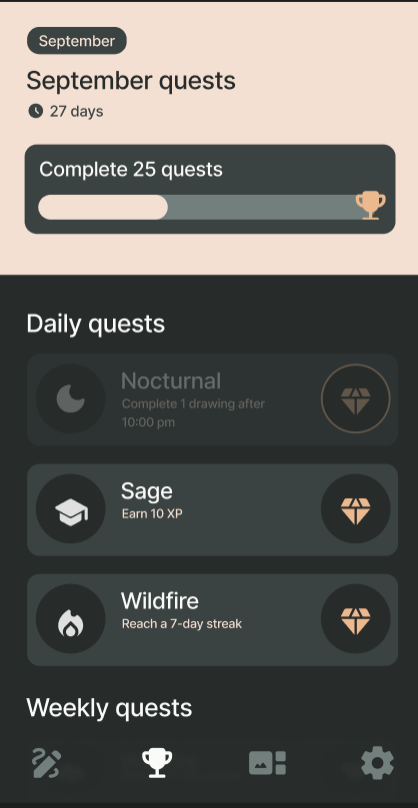
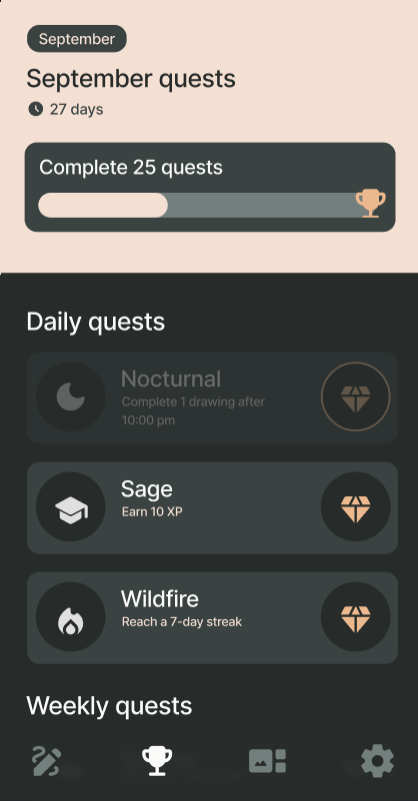
feat(quests): add quest card component

diff --git a/src/utils/svg-images.tsx b/src/utils/svg-images.tsx
@@ -96,3 +96,30 @@ export const Clock = ({ size = defaultSize, color = defaultColor }) => (
     />
   </Svg>
 )
+
+export const Moon = ({ size = defaultSize, color = defaultColor }) => (
+  <Svg width={size} height={size} viewBox="0 0 60 60" fill="none">
+    <Path
+      d="M30 52.5C23.7083 52.5 18.3854 50.3229 14.0312 45.9688C9.67708 41.6146 7.5 36.2917 7.5 30C7.5 24.25 9.375 19.2604 13.125 15.0312C16.875 10.8021 21.6667 8.33333 27.5 7.625C28.5417 7.5 29.3542 7.875 29.9375 8.75C30.5208 9.625 30.5 10.5417 29.875 11.5C29.1667 12.5833 28.6354 13.7292 28.2812 14.9375C27.9271 16.1458 27.75 17.4167 27.75 18.75C27.75 22.5 29.0625 25.6875 31.6875 28.3125C34.3125 30.9375 37.5 32.25 41.25 32.25C42.5417 32.25 43.8229 32.0625 45.0938 31.6875C46.3646 31.3125 47.5 30.7917 48.5 30.125C49.375 29.5417 50.2708 29.5104 51.1875 30.0312C52.1042 30.5521 52.5 31.375 52.375 32.5C51.7917 38.25 49.3438 43.0208 45.0312 46.8125C40.7188 50.6042 35.7083 52.5 30 52.5Z"
+      fill={color}
+    />
+  </Svg>
+)
+
+export const School = ({ size = defaultSize, color = defaultColor }) => (
+  <Svg width={size} height={size} viewBox="0 0 60 60" fill="none">
+    <Path
+      d="M52.4999 40V25.25L32.3749 36.1875C31.6249 36.6042 30.8333 36.8125 29.9999 36.8125C29.1666 36.8125 28.3749 36.6042 27.6249 36.1875L6.49994 24.6875C6.04161 24.4375 5.71869 24.125 5.53119 23.75C5.34369 23.375 5.24994 22.9583 5.24994 22.5C5.24994 22.0417 5.34369 21.625 5.53119 21.25C5.71869 20.875 6.04161 20.5625 6.49994 20.3125L27.6249 8.8125C27.9999 8.60417 28.3854 8.44792 28.7812 8.34375C29.177 8.23958 29.5833 8.1875 29.9999 8.1875C30.4166 8.1875 30.8229 8.23958 31.2187 8.34375C31.6145 8.44792 31.9999 8.60417 32.3749 8.8125L56.1874 21.8125C56.6041 22.0208 56.927 22.3229 57.1562 22.7188C57.3854 23.1146 57.4999 23.5417 57.4999 24V40C57.4999 40.7083 57.2604 41.3021 56.7812 41.7812C56.302 42.2604 55.7083 42.5 54.9999 42.5C54.2916 42.5 53.6979 42.2604 53.2187 41.7812C52.7395 41.3021 52.4999 40.7083 52.4999 40ZM27.6249 51.1875L15.1249 44.4375C14.2916 43.9792 13.6458 43.3542 13.1874 42.5625C12.7291 41.7708 12.4999 40.9167 12.4999 40V30.5L27.6249 38.6875C28.3749 39.1042 29.1666 39.3125 29.9999 39.3125C30.8333 39.3125 31.6249 39.1042 32.3749 38.6875L47.4999 30.5V40C47.4999 40.9167 47.2708 41.7708 46.8124 42.5625C46.3541 43.3542 45.7083 43.9792 44.8749 44.4375L32.3749 51.1875C31.9999 51.3958 31.6145 51.5521 31.2187 51.6562C30.8229 51.7604 30.4166 51.8125 29.9999 51.8125C29.5833 51.8125 29.177 51.7604 28.7812 51.6562C28.3854 51.5521 27.9999 51.3958 27.6249 51.1875Z"
+      fill={color}
+    />
+  </Svg>
+)
+
+export const Fire = ({ size = defaultSize, color = defaultColor }) => (
+  <Svg width={size} height={size} viewBox="0 0 60 60" fill="none">
+    <Path
+      d="M10.0001 35.0001C10.0001 30.2918 11.3959 25.771 14.1876 21.4376C16.9792 17.1043 20.8126 13.3126 25.6876 10.0626C26.6042 9.43763 27.5521 9.40638 28.5313 9.96888C29.5105 10.5314 30.0001 11.3751 30.0001 12.5001V15.7501C30.0001 17.1668 30.4896 18.3543 31.4688 19.3126C32.448 20.271 33.6459 20.7501 35.0626 20.7501C35.7709 20.7501 36.448 20.5939 37.0938 20.2814C37.7396 19.9689 38.3126 19.521 38.8126 18.9376C39.1459 18.521 39.573 18.2606 40.0938 18.1564C40.6146 18.0522 41.1042 18.1668 41.5626 18.5001C44.1876 20.3751 46.2501 22.771 47.7501 25.6876C49.2501 28.6043 50.0001 31.7085 50.0001 35.0001C50.0001 38.6668 49.1042 42.0106 47.3126 45.0314C45.5209 48.0522 43.1667 50.4376 40.2501 52.1876C40.9584 51.1876 41.5105 50.0939 41.9063 48.9064C42.3021 47.7189 42.5001 46.4585 42.5001 45.1251C42.5001 43.4585 42.1876 41.8856 41.5626 40.4064C40.9376 38.9272 40.0417 37.6043 38.8751 36.4376L30.0001 27.7501L21.1876 36.4376C19.9792 37.646 19.0626 38.9793 18.4376 40.4376C17.8126 41.896 17.5001 43.4585 17.5001 45.1251C17.5001 46.4585 17.698 47.7189 18.0938 48.9064C18.4896 50.0939 19.0417 51.1876 19.7501 52.1876C16.8334 50.4376 14.4792 48.0522 12.6876 45.0314C10.8959 42.0106 10.0001 38.6668 10.0001 35.0001ZM30.0001 34.7501L35.3126 39.9376C36.0209 40.646 36.5626 41.4376 36.9376 42.3126C37.3126 43.1876 37.5001 44.1251 37.5001 45.1251C37.5001 47.1668 36.7709 48.9064 35.3126 50.3439C33.8542 51.7814 32.0834 52.5001 30.0001 52.5001C27.9167 52.5001 26.1459 51.7814 24.6876 50.3439C23.2292 48.9064 22.5001 47.1668 22.5001 45.1251C22.5001 44.1668 22.6876 43.2397 23.0626 42.3439C23.4376 41.4481 23.9792 40.646 24.6876 39.9376L30.0001 34.7501Z"
+      fill={color}
+    />
+  </Svg>
+)

diff --git a/src/screens/Quests.tsx b/src/screens/Quests.tsx
@@ -1,119 +1,48 @@
 import React from 'react'
 import { ScrollView, View, StyleSheet } from 'react-native'
 import AppText from 'components/AppText'
+import Card from 'components/Card'
+import QuestsProgression from 'components/QuestsProgression'
 
 import { useTranslation } from 'react-i18next'
 
-import { endOfMonth, getDaysInMonth } from 'date-fns'
-import { formatDate, formatDateDistance } from 'utils/date-fns-format'
-
-import { useSelector } from 'react-redux'
-import { selectUser } from '../store/features/userSlice'
-
+import { dailyQuests } from 'utils/quests'
 import { COLORS } from 'utils/constants'
-import { Clock, Trophy } from 'utils/svg-images'
+import { Gem } from 'utils/svg-images'
 
 export default function Quests() {
   const { t } = useTranslation('translation', { keyPrefix: 'quests' })
 
-  const today = new Date()
-  const lastDayInMonth = endOfMonth(today)
-
-  const month = formatDate(today, 'LLLL')
-  const daysLeft = formatDateDistance(today, lastDayInMonth)
-  const daysInMonth = getDaysInMonth(today)
-
-  const user = useSelector(selectUser)
-  const questsLeft = daysInMonth - (user.quests?.completed || 0)
-
   return (
     <ScrollView>
-      <View style={styles.progressContainer}>
-        <AppText style={styles.badge}>{month}</AppText>
+      <QuestsProgression></QuestsProgression>
 
-        <AppText style={styles.month}>
-          {t('month-quests', { month: month })}
-        </AppText>
-
-        <View style={styles.daysLeftContainer}>
-          <Clock color={COLORS.secondaryLight} size={16} />
-          <AppText style={styles.daysLeft}> {daysLeft}</AppText>
-        </View>
-
-        <View style={styles.completeContainer}>
-          <AppText style={styles.completeText}>
-            {t('complete', { questsLeft: questsLeft })}
-          </AppText>
-          <View style={styles.progressBar}>
-            <View style={{ ...styles.progressBarInner, width: '40%' }}></View>
-            <View style={styles.trophyContainer}>
-              <Trophy color={COLORS.primaryDark} size={36} />
-            </View>
-          </View>
-        </View>
+      <View style={styles.quests}>
+        <AppText style={styles.questsType}>{t('dailyQuests')}</AppText>
+        {dailyQuests.map((quest, questIndex) => (
+          <Card
+            key={`quest-${questIndex}`}
+            title={quest.title}
+            description={t(quest.description.key, {
+              count: quest.description.count,
+            })}
+            icon1={quest.icon1}
+            icon2={Gem}
+          />
+        ))}
       </View>
     </ScrollView>
   )
 }
 
 const styles = StyleSheet.create({
-  progressContainer: {
-    backgroundColor: COLORS.primary,
-    padding: 25,
-    paddingBottom: 35,
+  quests: {
+    padding: 20,
   },
-
-  badge: {
-    backgroundColor: COLORS.secondaryLight,
-    textTransform: 'capitalize',
-    fontSize: 13,
-    color: COLORS.primary,
-    alignSelf: 'flex-start',
-    paddingHorizontal: 10,
-    paddingVertical: 4,
-    borderRadius: 12,
-    marginBottom: 12,
-  },
-
-  month: {
-    fontSize: 24,
-    marginBottom: 5,
-  },
-
-  daysLeftContainer: {
-    marginBottom: 20,
-    flexDirection: 'row',
-  },
-  daysLeft: {
-    fontSize: 13,
-  },
-
-  completeContainer: {
-    backgroundColor: COLORS.secondaryLight,
-    borderRadius: 12,
-    paddingTop: 12,
-    paddingRight: 20,
-    paddingBottom: 14,
-    paddingLeft: 12,
-  },
-  completeText: {
-    fontSize: 18,
+  questsType: {
+    fontSize: 20,
     color: COLORS.white,
-    marginBottom: 14,
-  },
-  progressBar: {
-    height: 24,
-    backgroundColor: COLORS.secondaryLighter,
-    borderRadius: 12,
-    justifyContent: 'center',
-  },
-  progressBarInner: {
-    height: 24,
-    backgroundColor: COLORS.primary,
-    borderRadius: 12,
-  },
-  trophyContainer: {
-    position: 'absolute',
-    right: -14,
+    marginTop: 12,
+    marginBottom: 5,
   },
 })

diff --git a/src/components/QuestsProgression.tsx b/src/components/QuestsProgression.tsx
@@ -1,0 +1,122 @@
+import React from 'react'
+import { View, StyleSheet } from 'react-native'
+import AppText from 'components/AppText'
+
+import { useTranslation } from 'react-i18next'
+
+import { endOfMonth, getDaysInMonth } from 'date-fns'
+import { formatDate, formatDateDistance } from 'utils/date-fns-format'
+
+import { useSelector } from 'react-redux'
+import { selectUser } from '../store/features/userSlice'
+
+import { COLORS } from 'utils/constants'
+import { Clock, Trophy } from 'utils/svg-images'
+
+export default function QuestsProgression() {
+  const { t } = useTranslation('translation', { keyPrefix: 'quests' })
+
+  const today = new Date()
+  const lastDayInMonth = endOfMonth(today)
+
+  const month = formatDate(today, 'LLLL')
+  const daysLeft = formatDateDistance(today, lastDayInMonth)
+  const daysInMonth = getDaysInMonth(today)
+
+  const user = useSelector(selectUser)
+  const questsLeft = daysInMonth - (user.quests?.completed || 0)
+
+  return (
+    <View style={styles.progressContainer}>
+      <View style={styles.badgeContainer}>
+        <AppText style={styles.badgeText}>{month}</AppText>
+      </View>
+
+      <AppText style={styles.month}>
+        {t('monthQuests', { month: month })}
+      </AppText>
+
+      <View style={styles.daysLeftContainer}>
+        <Clock color={COLORS.secondaryLight} size={16} />
+        <AppText style={styles.daysLeft}> {daysLeft}</AppText>
+      </View>
+
+      <View style={styles.completeContainer}>
+        <AppText style={styles.completeText}>
+          {t('complete', { count: questsLeft })}
+        </AppText>
+        <View style={styles.progressBar}>
+          <View style={{ ...styles.progressBarInner, width: '40%' }}></View>
+          <View style={styles.trophyContainer}>
+            <Trophy color={COLORS.primaryDark} size={36} />
+          </View>
+        </View>
+      </View>
+    </View>
+  )
+}
+
+const styles = StyleSheet.create({
+  progressContainer: {
+    backgroundColor: COLORS.primary,
+    paddingHorizontal: 25,
+    paddingTop: 50,
+    paddingBottom: 35,
+  },
+
+  badgeContainer: {
+    backgroundColor: COLORS.secondaryLight,
+    alignSelf: 'flex-start',
+    paddingHorizontal: 10,
+    paddingVertical: 4,
+    borderRadius: 12,
+    marginBottom: 12,
+  },
+  badgeText: {
+    textTransform: 'capitalize',
+    fontSize: 13,
+    color: COLORS.primary,
+  },
+
+  month: {
+    fontSize: 24,
+    marginBottom: 5,
+  },
+
+  daysLeftContainer: {
+    marginBottom: 20,
+    flexDirection: 'row',
+  },
+  daysLeft: {
+    fontSize: 13,
+  },
+
+  completeContainer: {
+    backgroundColor: COLORS.secondaryLight,
+    borderRadius: 12,
+    paddingTop: 12,
+    paddingRight: 20,
+    paddingBottom: 14,
+    paddingLeft: 12,
+  },
+  completeText: {
+    fontSize: 18,
+    color: COLORS.white,
+    marginBottom: 14,
+  },
+  progressBar: {
+    height: 24,
+    backgroundColor: COLORS.secondaryLighter,
+    borderRadius: 12,
+    justifyContent: 'center',
+  },
+  progressBarInner: {
+    height: 24,
+    backgroundColor: COLORS.primary,
+    borderRadius: 12,
+  },
+  trophyContainer: {
+    position: 'absolute',
+    right: -14,
+  },
+})

diff --git a/src/components/Card.tsx b/src/components/Card.tsx
@@ -1,0 +1,59 @@
+import React from 'react'
+import { View, StyleSheet } from 'react-native'
+import AppText from './AppText'
+import { COLORS } from 'utils/constants'
+
+export default function Card(props) {
+  const Icon1 = props.icon1
+  const Icon2 = props.icon2
+
+  return (
+    <View style={styles.container}>
+      <View style={styles.imageContainer}>
+        <Icon1 />
+      </View>
+
+      <View style={styles.textContainer}>
+        <AppText style={styles.title}>{props.title}</AppText>
+        <AppText style={styles.description}>{props.description}</AppText>
+      </View>
+
+      <View style={styles.imageContainer}>
+        <Icon2 color={COLORS.primaryDark} />
+      </View>
+    </View>
+  )
+}
+
+const styles = StyleSheet.create({
+  container: {
+    backgroundColor: COLORS.secondaryLight,
+    flexDirection: 'row',
+    justifyContent: 'space-between',
+    padding: 10,
+    borderRadius: 8,
+    marginVertical: 8,
+  },
+  imageContainer: {
+    backgroundColor: COLORS.secondary,
+    width: 64,
+    height: 64,
+    justifyContent: 'center',
+    alignItems: 'center',
+    borderRadius: 100,
+  },
+
+  textContainer: {
+    flex: 1,
+    paddingHorizontal: 18,
+  },
+  title: {
+    color: COLORS.white,
+    fontSize: 20,
+    marginBottom: 5,
+  },
+  description: {
+    color: COLORS.primary,
+    fontSize: 11,
+  },
+})

diff --git a/src/utils/quests.ts b/src/utils/quests.ts
@@ -1,0 +1,19 @@
+import { Moon, School, Fire } from './svg-images'
+
+export const dailyQuests = [
+  {
+    title: 'Nocturnal',
+    description: { key: 'completeDrawing', count: 1 },
+    icon1: Moon,
+  },
+  {
+    title: 'Sage',
+    description: { key: 'earnXp', count: 10 },
+    icon1: School,
+  },
+  {
+    title: 'Wildfire',
+    description: { key: 'reachStreak', count: 7 },
+    icon1: Fire,
+  },
+]

diff --git a/src/screens/Signup.tsx b/src/screens/Signup.tsx
@@ -71,7 +71,7 @@ export const Signup = () => {
         onChangeText={(password) => setNewUser({ ...newUser, password })}
       />
       <Pressable onPress={onSignup}>
-        <Text>{t('create-account')}</Text>
+        <Text>{t('createAccount')}</Text>
       </Pressable>
     </View>
   )
